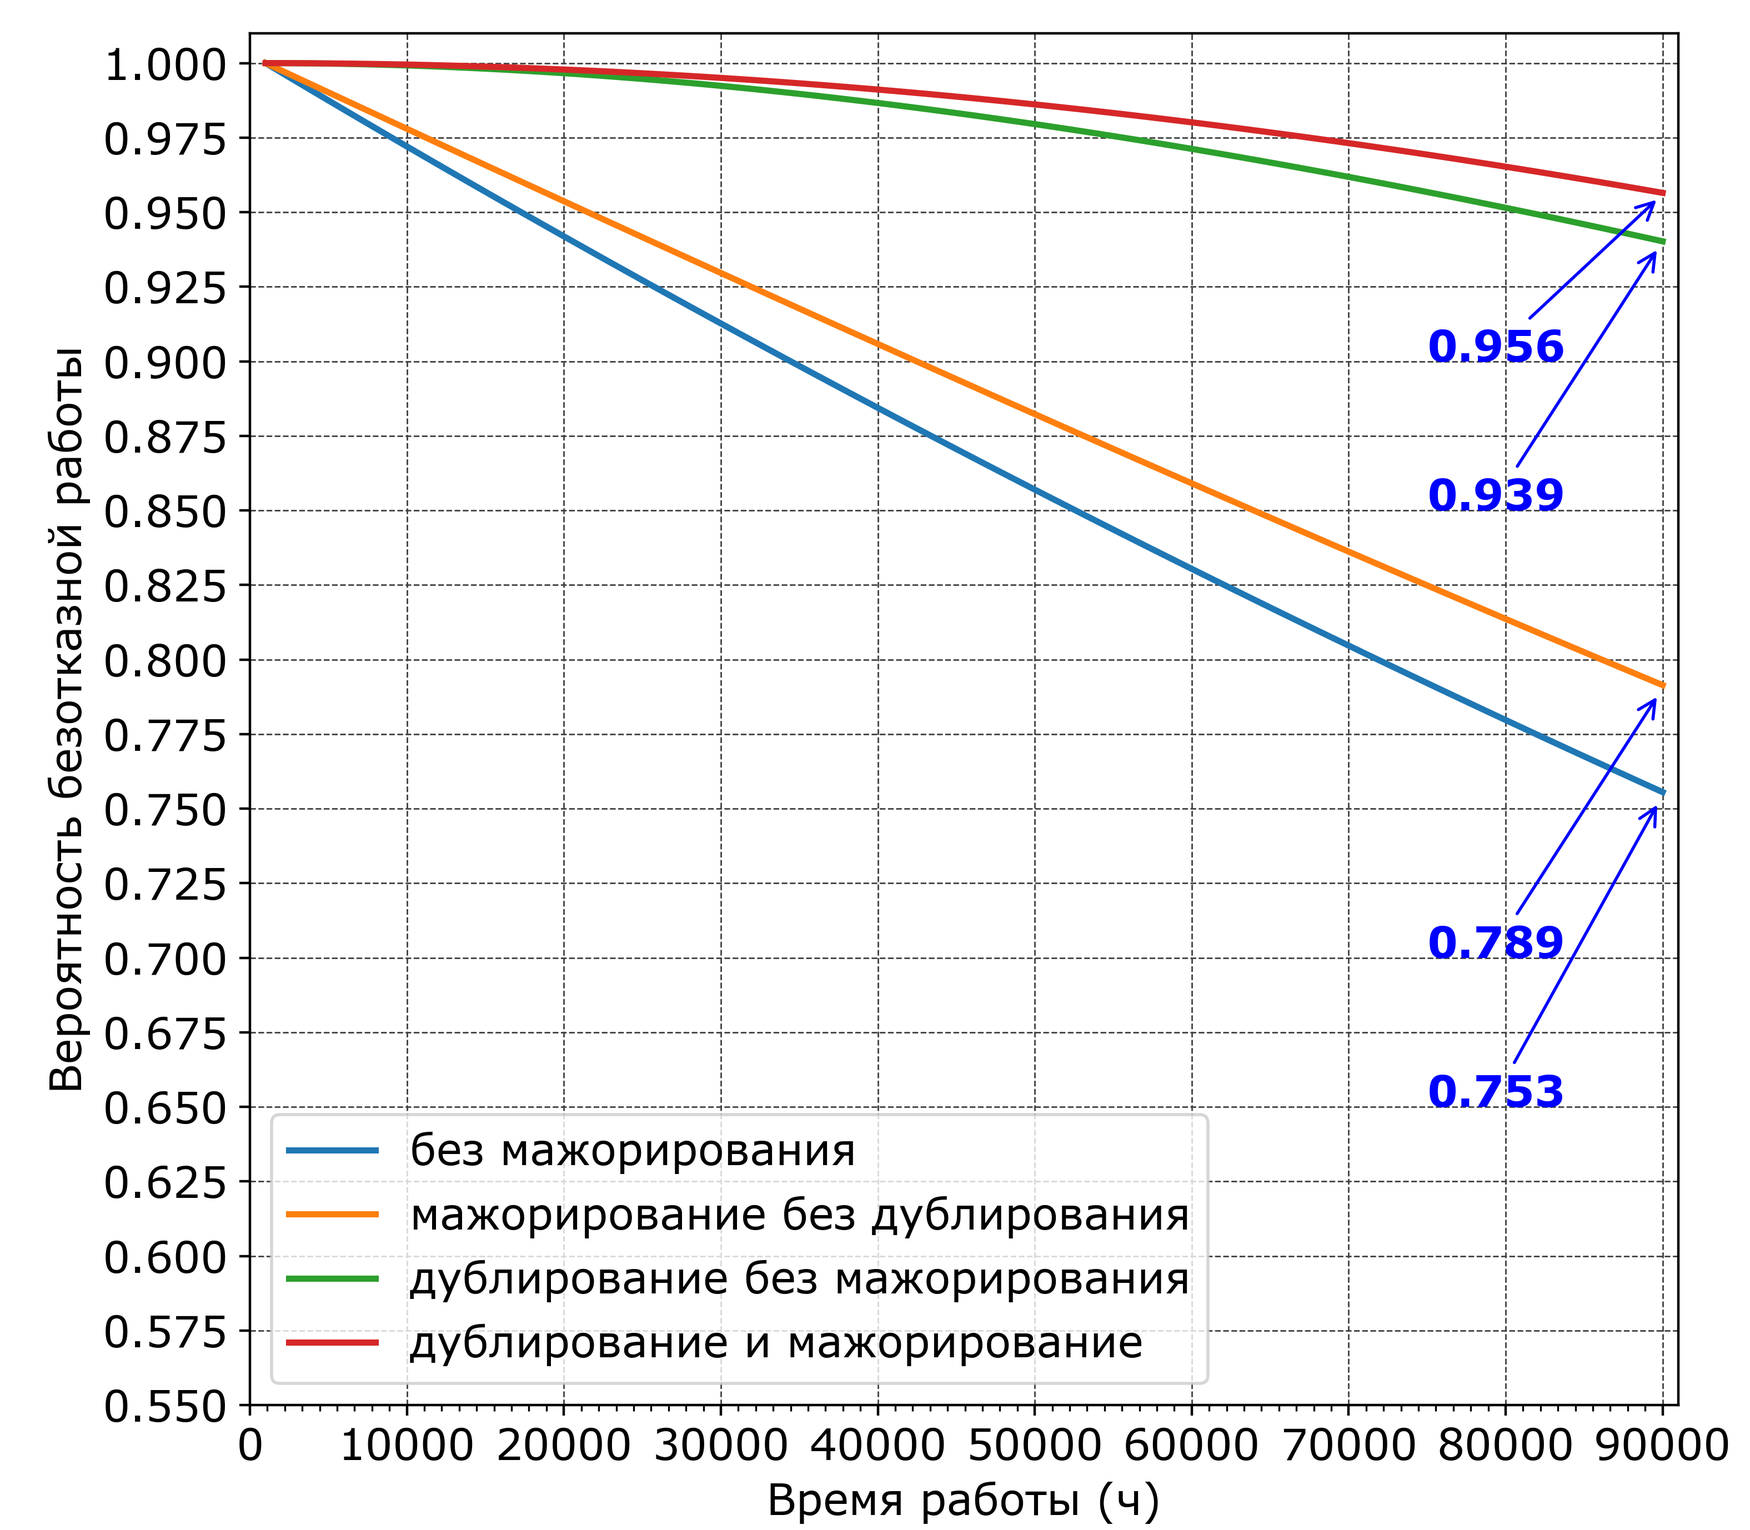
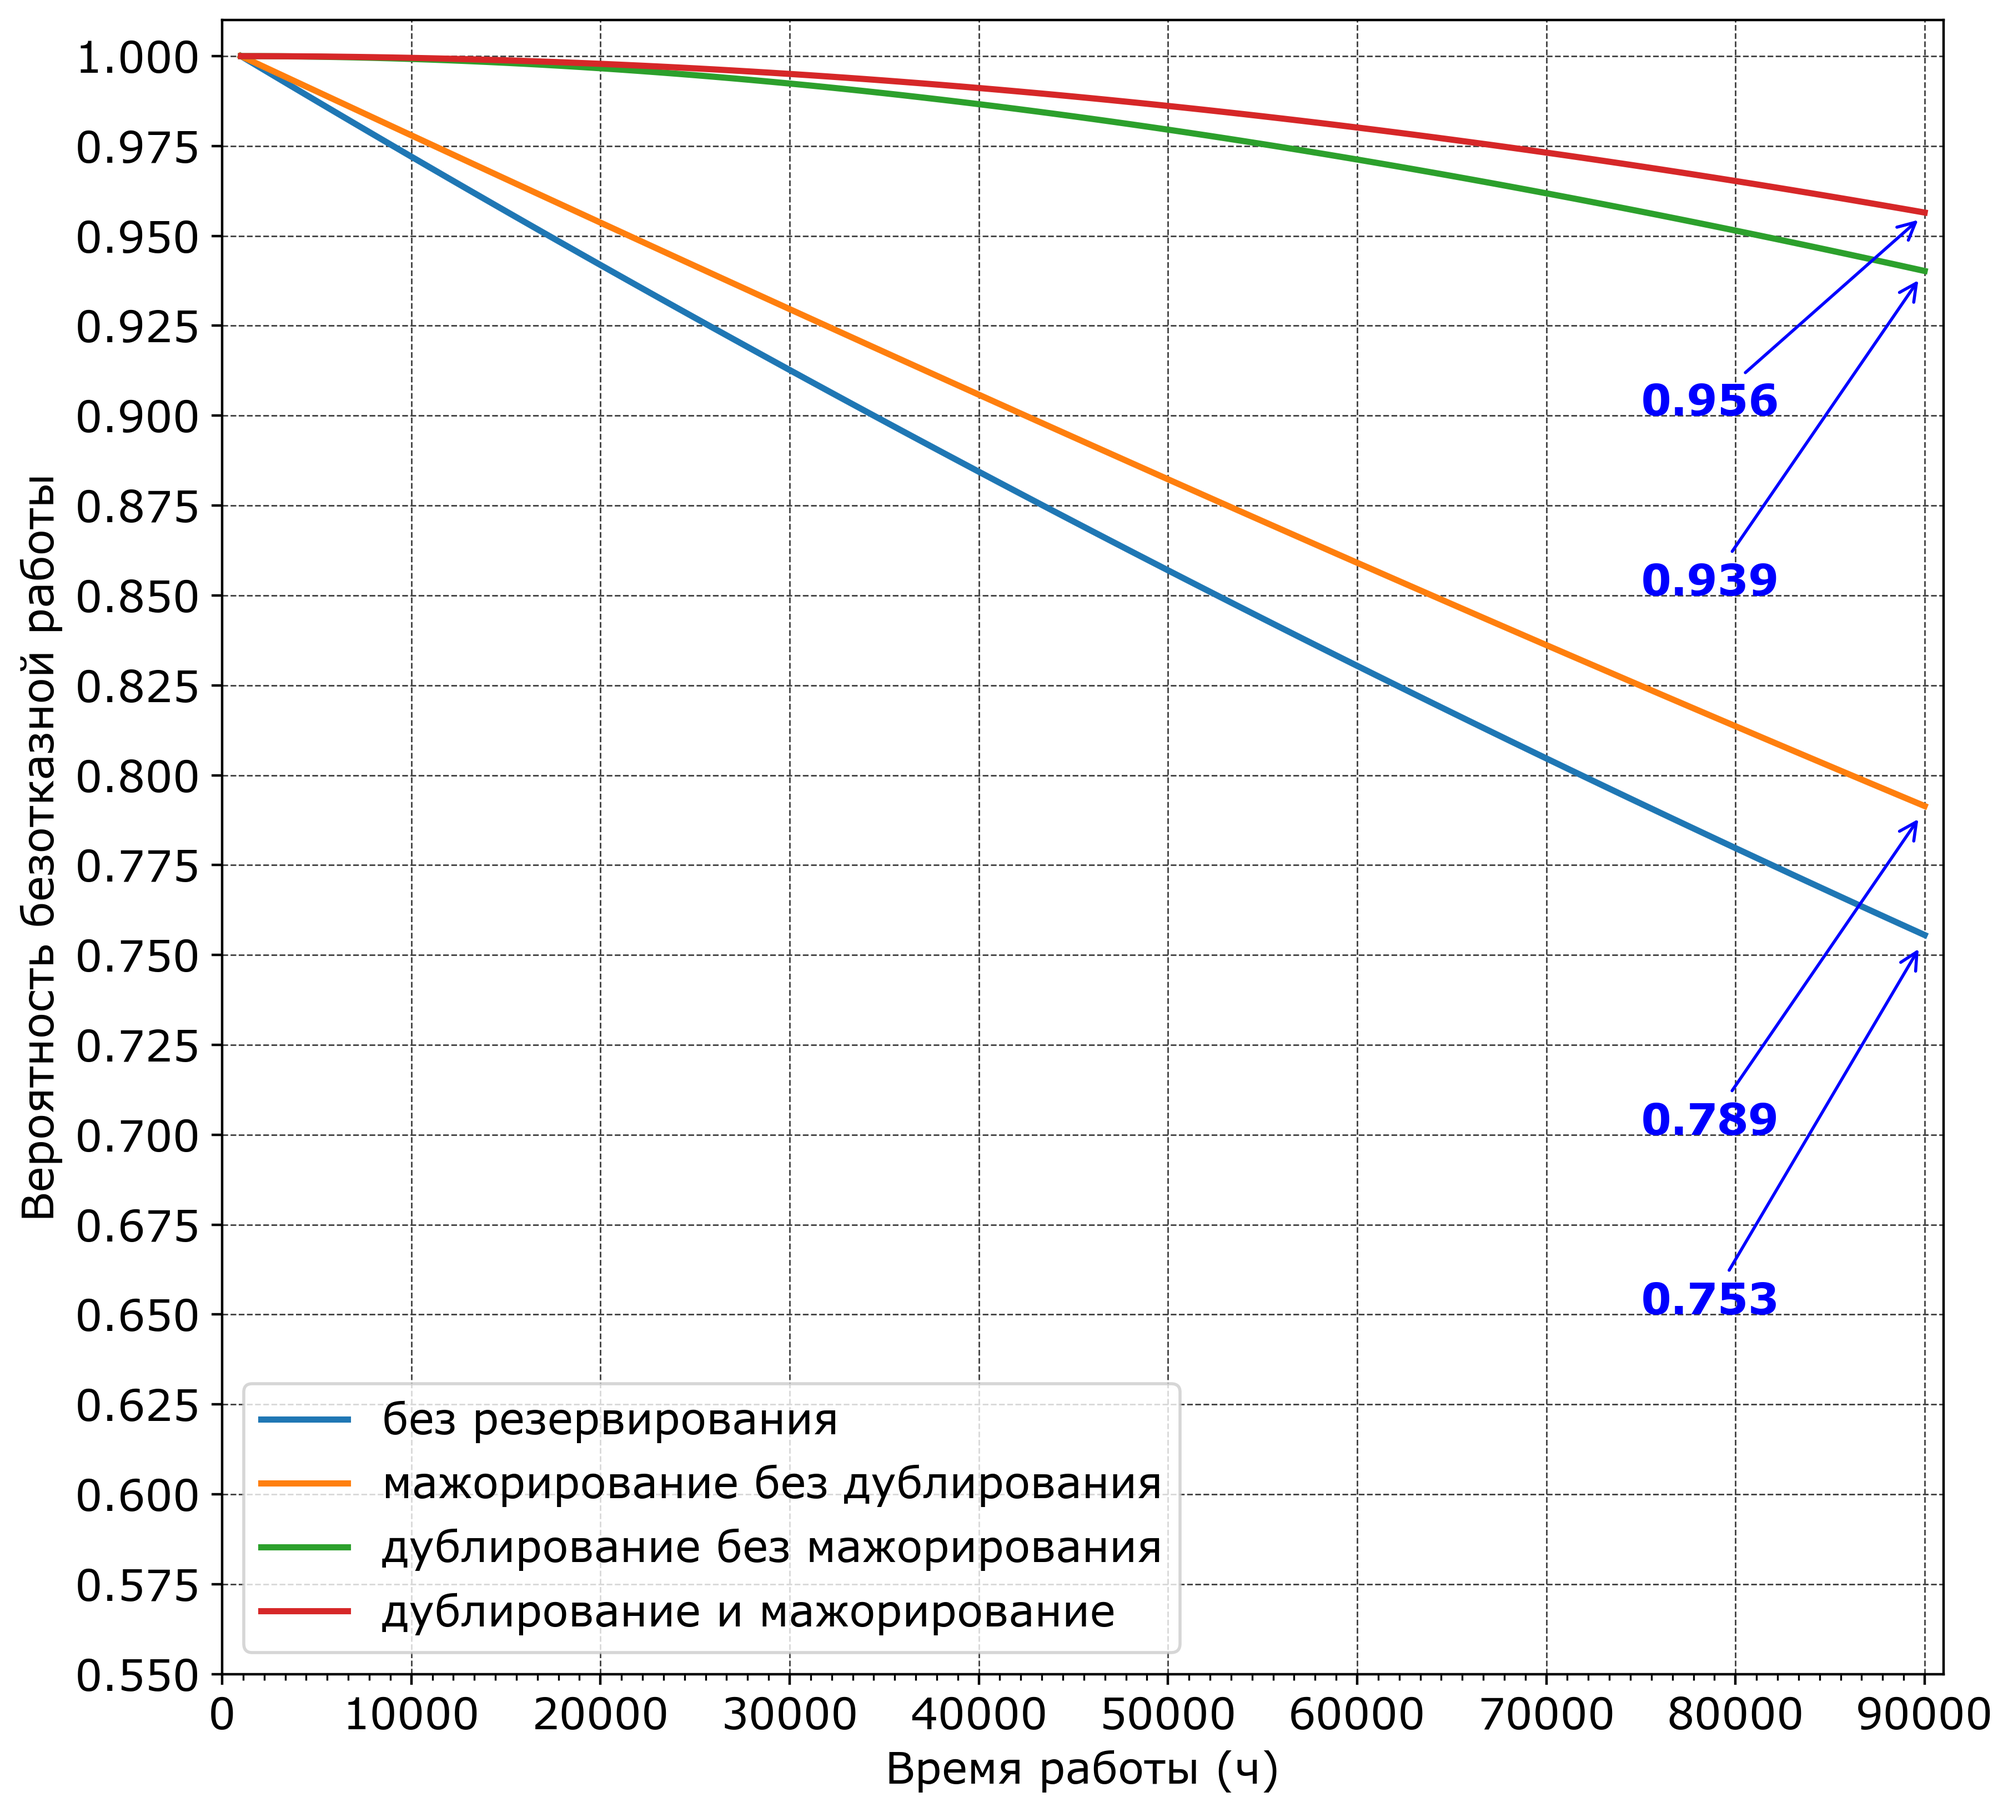
пересчитал зип

diff --git a/MSHV.py b/MSHV.py
@@ -319,15 +319,15 @@ for x in range(len(G_RZ2)):
                 G_D4[x] + \
                 G_T1[x] + G_T1[x] + G_T1[x] + G_T1[x] + G_T1[x] + \
                 G_TR[x]
-    for y in range(len(R)):
-        a[y] = G_MAZH[y] * 5000
-        n = 2  # начнем 0
-        while R[y] >= 10E-3:
-            R[y] = -math.log(1 - a[y] ** (k + 2) / (a[y] ** (k + 2) + (n - k) * (1 + a[y]) ** (k + 1)))
-            n = n + 1
-            zip[y] = n
-#    print ('R = '), R
-#    print ('ZIP ='), zip
+for y in range(len(R)):
+    a[y] = G_MAZH[y] * 5000
+    n = 2  # начнем 0
+    while R[y] >= 10E-7:
+        R[y] = -math.log(1 - a[y] ** (k + 2) / (a[y] ** (k + 2) + (n - k) * (1 + a[y]) ** (k + 1)))
+        zip[y] = n
+        n = n + 1
+print ('R = '), R
+print ('ZIP ='), zip
     # 3 теперь найдем а= m * гамма * Т ,  m = 2, T =5000
 
 # 4 теперь будем подбирать R (сложная формула ГОСТ РВ 27.3.03-2005 c. 13, ф.9.3),
@@ -681,7 +681,7 @@ for i in range(0, time):  # время до 90000 ч
 #    COUNT_ZIP = np.vstack((COUNT_ZIP, DZIP))
     T.append(t)
 COUNT_ZIP = np.delete(COUNT_ZIP, 0, 0)
-print COUNT_ZIP
+# print COUNT_ZIP
 # np.save("T", T)
 # np.save("T15", T)
 # np.save("COUNT_ZIP", COUNT_ZIP)

diff --git a/main.py b/main.py
@@ -90,7 +90,7 @@ ax.set_ylim(0.55, 1.01)
 
 ax.grid(linestyle="--", linewidth=0.5, color='.25', zorder=-10)
 
-ax.plot(T, VBR[0:len(T), 0], lw=2, label=u"без мажорирования")  # ax.plot(T, vbr, c=(0.25, 0.25, 1.00), lw=2, label="Blue signal", zorder=10)
+ax.plot(T, VBR[0:len(T), 0], lw=2, label=u"без резервирования")  # ax.plot(T, vbr, c=(0.25, 0.25, 1.00), lw=2, label="Blue signal", zorder=10)
 ax.plot(T, VBR_MAZH[0:len(T), 0], lw=2, label=u"мажорирование без дублирования")  # ax.plot(T, vbr1, c=(1.00, 0.25, 0.25), lw=2, label="Red signal")
 ax.plot(T, VBR_D[0:len(T), 0], lw=2, label=u"дублирование без мажорирования")
 ax.plot(T, VBR_D_MAZH[0:len(T), 0], lw=2, label=u"дублирование и мажорирование")
@@ -200,7 +200,7 @@ ax1.legend(fontsize=14)
 
 
 plt.show() # раскоментровать для графиков
-# fig.savefig('big1.png', dpi=400)
+fig.savefig('big1.png', dpi=400)
 # fig1.savefig('big2.png', dpi=400)
 
 
